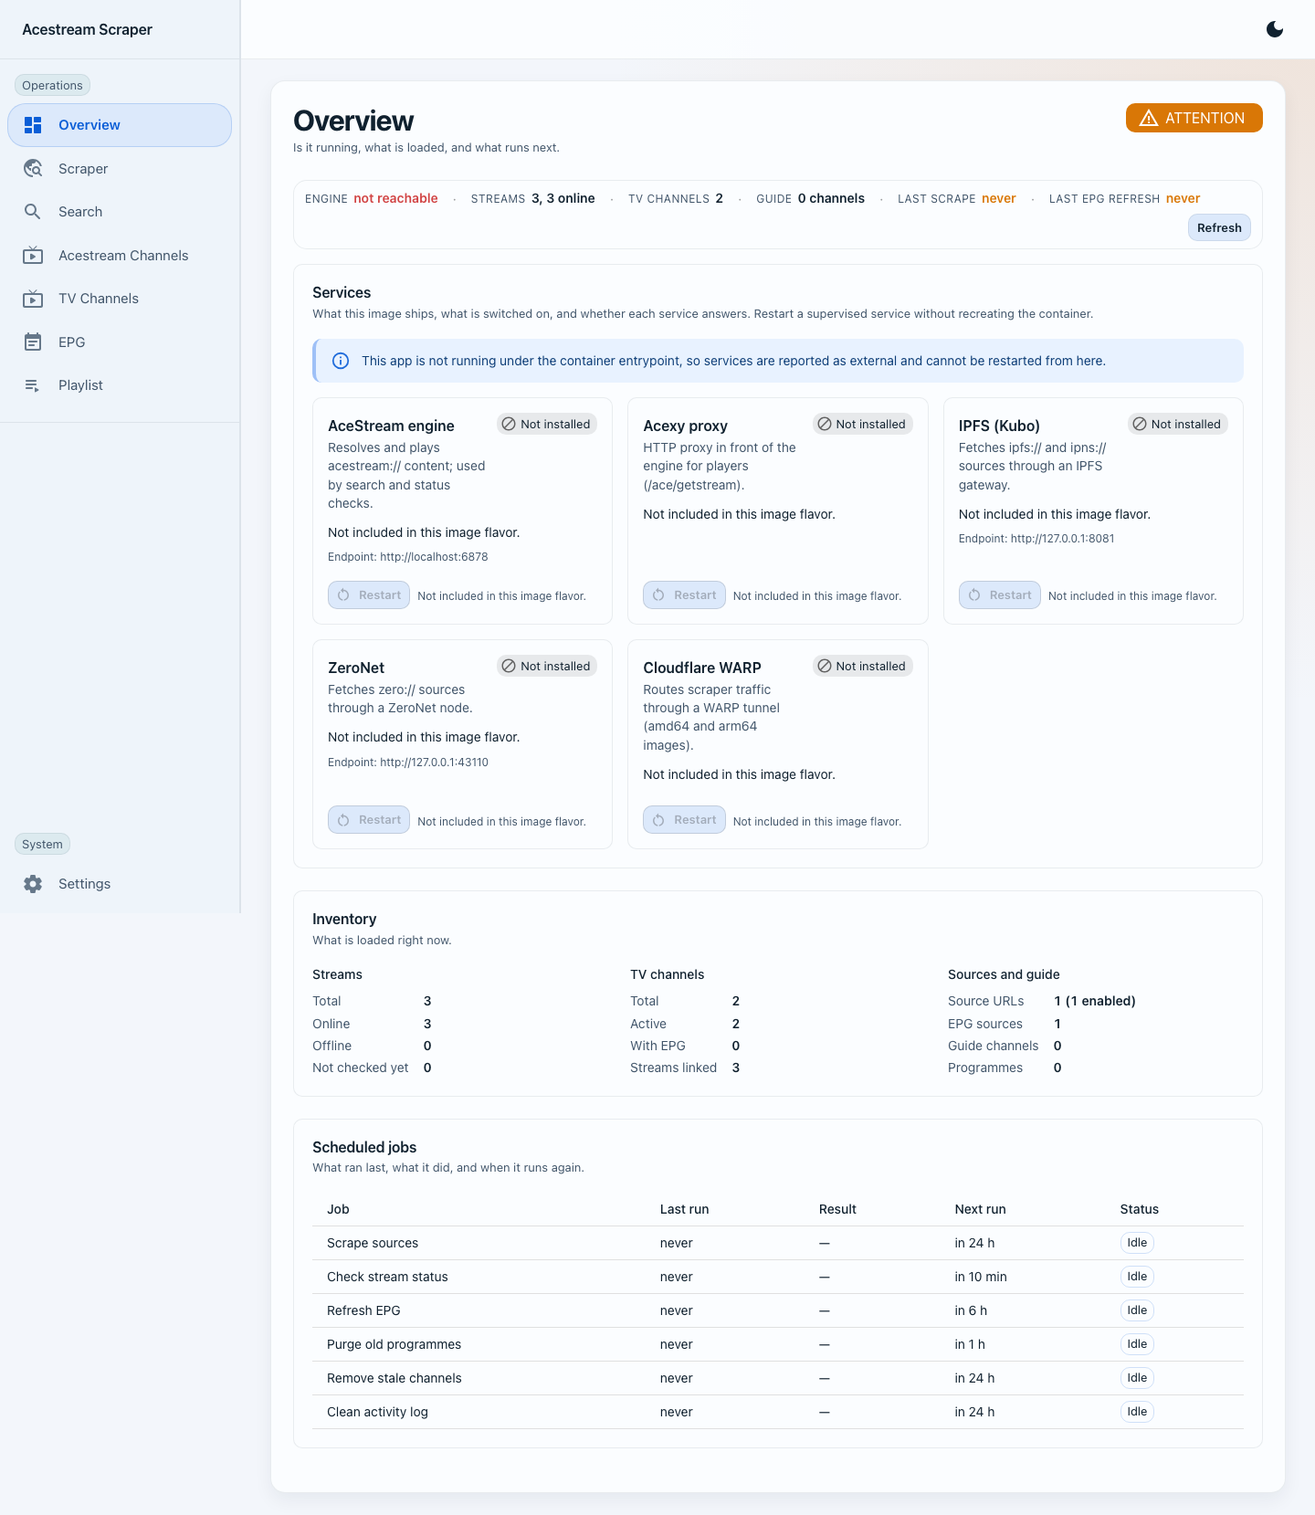
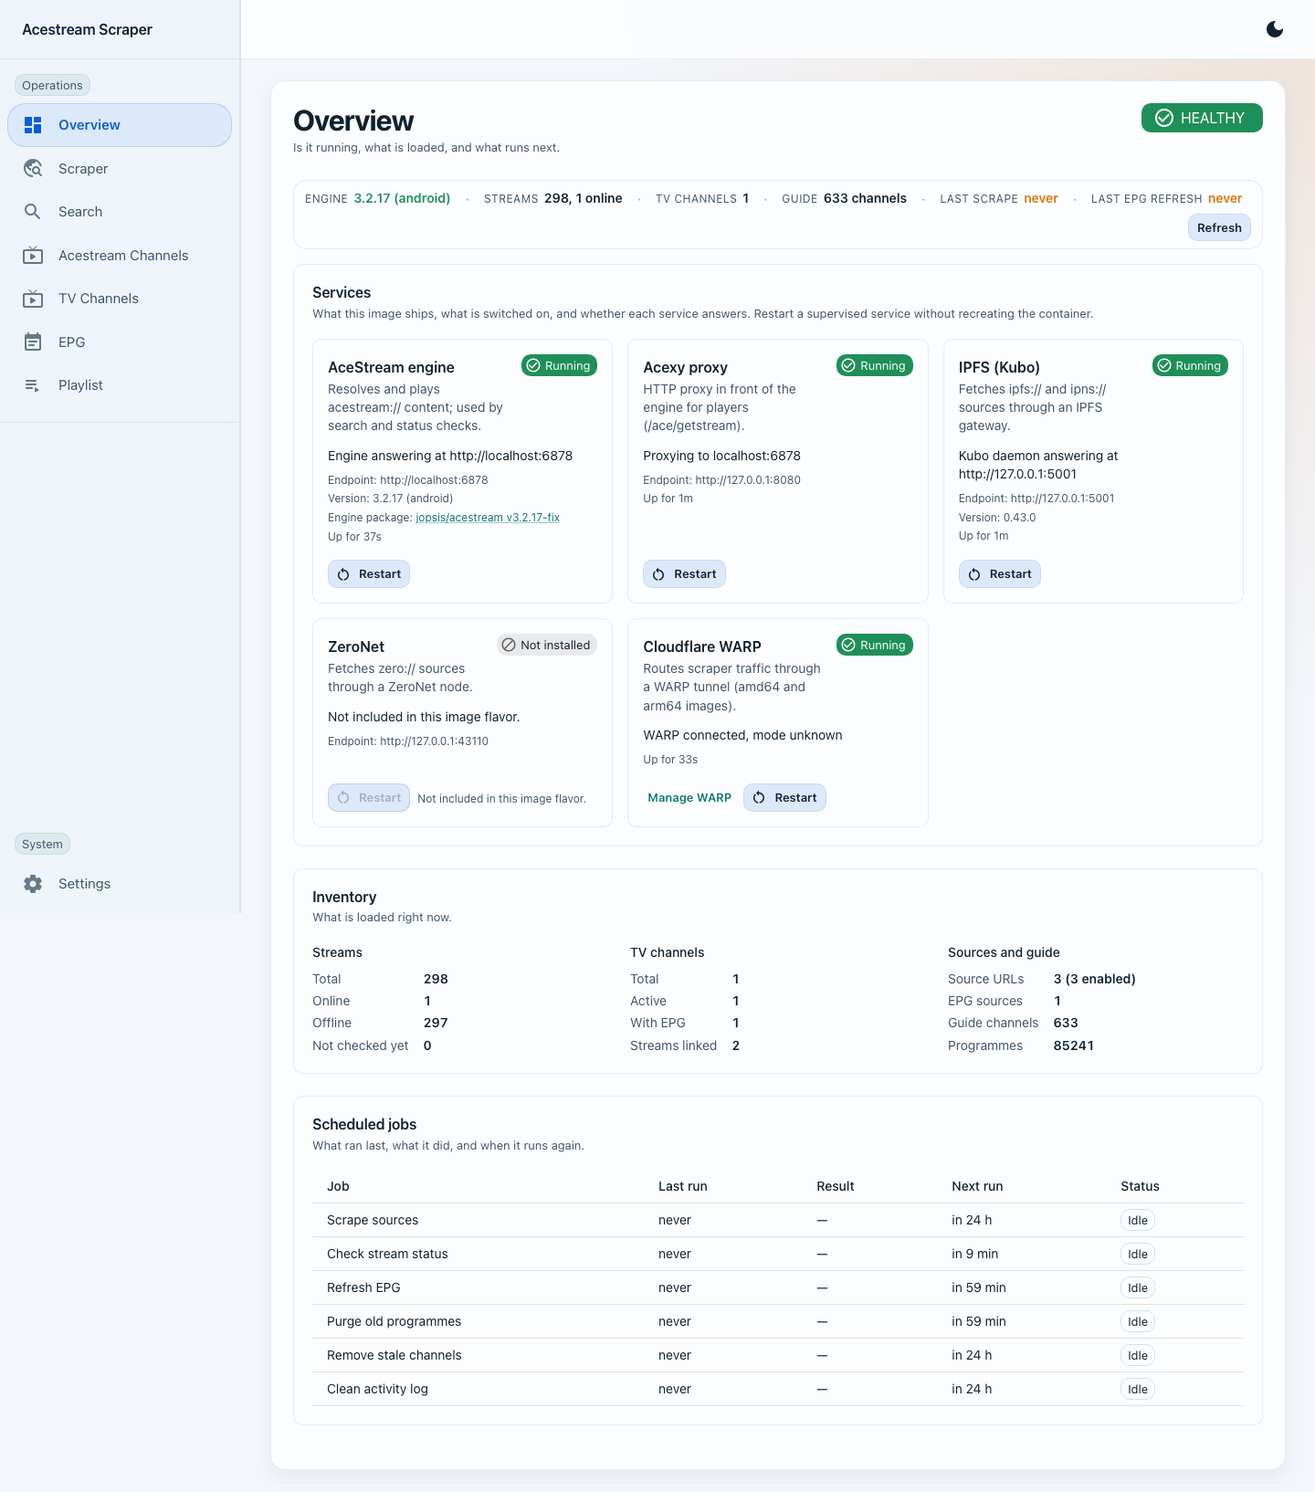
fix: enable and verify WARP on arm64

diff --git a/e2e/tests/09-system.spec.ts b/e2e/tests/09-system.spec.ts
@@ -58,10 +58,14 @@ test.describe('overview and WARP', () => {
     for (const target of managed) {
       await overview.restart(target.label);
       await overview.expectAlert(/Restart requested/);
-      await expect(overview.serviceCard(target.label)).toContainText('Restarting');
+      let restarted: { name: string; pid: number | null; state: string; message: string } | undefined;
+      await expect.poll(async () => {
+        const after = await api.raw('get', '/api/v1/system/services').then((r) => r.json() as Promise<{ services: { name: string; pid: number | null; state: string; message: string }[] }>);
+        restarted = after.services.find((s) => s.name === target.name);
+        return restarted?.state === 'running' && restarted.pid !== null && restarted.pid !== target.pid;
+      }, { timeout: 120_000 }).toBe(true);
       await expect(overview.serviceCard(target.label)).toContainText('Running', { timeout: 120_000 });
-      const after = await api.raw('get', '/api/v1/system/services').then((r) => r.json() as Promise<{ services: { name: string; pid: number | null; state: string; message: string }[] }>);
-      const restarted = after.services.find((s) => s.name === target.name)!;
+      if (!restarted) throw new Error(`${target.name} disappeared after restart`);
       expect(restarted.state, `${target.name} after restart`).toBe('running');
       expect(restarted.pid, `${target.name} relaunched with a new pid`).not.toBe(target.pid);
       testInfo.annotations.push({ type: 'restart', description: `${target.name}: pid ${target.pid} -> ${restarted.pid}; ${restarted.message}` });
@@ -77,16 +81,17 @@ test.describe('overview and WARP', () => {
     await expect(warp.status()).toContainText(/Not running|Disconnected|Connected/);
 
     const services = await api.raw('get', '/api/v1/system/services').then((r) => r.json() as Promise<{ services: { name: string; state: string; message: string }[] }>);
+    const warpStatus = await api.raw('get', '/api/v1/warp/status').then((r) => r.json() as Promise<{ mode: string | null }>);
     const warpService = services.services.find((s) => s.name === 'warp')!;
     testInfo.annotations.push({ type: 'warp', description: `${warpService.state}: ${warpService.message}` });
     if (warpService.state === 'running') {
       await expect(warp.status()).toContainText(/Connected|Disconnected/);
-      await expect(warp.status()).toContainText(/mode \w+/);
+      if (warpStatus.mode) await expect(warp.status()).toContainText(`mode ${warpStatus.mode}`);
       await expect(warp.modeAndLicense()).toBeVisible();
       await expect(warp.connectionDetails()).toBeVisible();
       if (/^WARP connected/.test(warpService.message)) {
         await expect(warp.status()).toContainText(/^Connected/);
-        await expect(warp.connectionDetails()).toContainText(/IP: \d+\.\d+\.\d+\.\d+/);
+        await expect(warp.connectionDetails()).toContainText(/IP: (?:\d{1,3}(?:\.\d{1,3}){3}|[0-9a-f:]+)/i);
       }
     } else {
       await expect(warp.status()).toContainText('Not running');

diff --git a/docs/builder/app.js b/docs/builder/app.js
@@ -122,7 +122,10 @@
       env.push(['ACEXY_HOST', state.extEngineHost.trim() || '<engine-host>']);
       env.push(['ACEXY_PORT', String(validPort(state.extEnginePort) || 6878)]);
     }
-    if (d.warpOn) env.push(['ENABLE_WARP', 'true']);
+    if (d.warpOn) {
+      env.push(['ENABLE_WARP', 'true']);
+      env.push(['WARP_ENABLE_NAT', 'true']);
+    }
     if (d.zeronetEmbeddedOn) env.push(['ENABLE_ZERONET', 'true']);
     if (d.zeronetExternalOn) env.push(['ZERONET_URL', state.zeronetUrl.trim() || data.zeronet.defaultUrl]);
     if (d.ipfsEmbeddedOn) env.push(['ENABLE_IPFS', 'true']);
@@ -178,6 +181,7 @@
     if (d.warpOn) {
       lines.push('  --cap-add NET_ADMIN \\');
       lines.push('  --cap-add SYS_ADMIN \\');
+      lines.push('  --device /dev/net/tun:/dev/net/tun \\');
     }
     if (usesHostGateway(d)) lines.push('  --add-host host.docker.internal:host-gateway \\');
     for (const [k, v] of envEntries(d)) lines.push(`  -e ${k}=${v} \\`);
@@ -230,6 +234,8 @@
       lines.push('    cap_add:');
       lines.push('      - NET_ADMIN');
       lines.push('      - SYS_ADMIN');
+      lines.push('    devices:');
+      lines.push('      - /dev/net/tun:/dev/net/tun');
     }
     if (usesHostGateway(d)) {
       lines.push('    extra_hosts:');
@@ -391,7 +397,7 @@
     }
     list.append(toggleRow('warp', 'Route through Cloudflare WARP',
       d.platform.warpAvailable
-        ? 'Tunnels the container\'s traffic through WARP. Adds the NET_ADMIN and SYS_ADMIN capabilities.'
+        ? 'Connects the container through WARP. Adds the required capabilities and TUN device.'
         : data.notes.warpArm,
       d.platform.warpAvailable && state.warp, (v) => { state.warp = v; }, !d.platform.warpAvailable));
     list.append(toggleRow('zeronet', 'Scrape ZeroNet sources',

diff --git a/scripts/ci/validate_docker_docs_contract.py b/scripts/ci/validate_docker_docs_contract.py
@@ -123,8 +123,10 @@ checks = [
         "docs explain warp capabilities",
         "NET_ADMIN" in readme
         and "SYS_ADMIN" in readme
+        and "/dev/net/tun" in readme
         and "NET_ADMIN" in docker_guide
-        and "SYS_ADMIN" in docker_guide,
+        and "SYS_ADMIN" in docker_guide
+        and "/dev/net/tun" in docker_guide,
     ),
     (
         "docs explain acestream engine state volume",

diff --git a/README.md b/README.md
@@ -41,7 +41,7 @@ Not sure which tag, ports, folders or options you need? The [Docker command buil
 
 `latest` and the immutable `vX.Y.Z` tags (plus `vX.Y.Z-<flavor>`) are the releases, cut from `main`. A pre-release channel is published from the `develop` branch as well: `pipepito/acestream-scraper:develop` (the full `scraper-acestream-acexy` payload, mirroring what `latest` means for releases) plus `develop-scraper`, `develop-scraper-acestream`, `develop-scraper-acexy`, and `develop-scraper-acestream-acexy`. The channel tags are moving tags, re-pushed on every validated build of `develop` (the full CI validation runs first, on the same platforms as the release flavors), so they are meant for testing the next release and not for production. To try one, set `image: pipepito/acestream-scraper:develop` in your compose file or `docker pull pipepito/acestream-scraper:develop`.
 
-WARP is installed in every flavor's `linux/amd64` image (ARM images ship without it), but it only starts when `ENABLE_WARP=true`. WARP-enabled containers need the runtime capabilities `NET_ADMIN` and `SYS_ADMIN`.
+WARP is installed in every flavor's `linux/amd64` and `linux/arm64` images (`linux/arm/v7` has no upstream package), but it only starts when `ENABLE_WARP=true`. WARP-enabled containers need the runtime capabilities `NET_ADMIN` and `SYS_ADMIN` plus the `/dev/net/tun` device. Set `WARP_ENABLE_NAT=true` to connect automatically at startup, or connect from the WARP page after the service starts.
 
 ZeroNet works in two modes. The `linux/amd64` images bundle a ZeroNet node ([zeronet-conservancy](https://github.com/zeronet-conservancy/zeronet-conservancy) v0.7.10 on its own Python 3.11, like the v1 image) that is opt-in via `ENABLE_ZERONET=true` (plus optional `ENABLE_TOR=true`); its state lives in `/data/zeronet` and its UI/fileserver ports are `43110`/`26552`. Alternatively — and on ARM images, which ship without the bundled node — ZeroNet runs as an external sidecar/service and the app talks to it through `ZERONET_URL`.
 
@@ -57,7 +57,7 @@ AceStream platform availability is manifest-driven via `docker/manifests/acestre
 
 The manifest currently covers `linux/amd64` (native Linux engine 3.2.11), `linux/arm64` (stable: non-premium-gated Android engine 3.2.17 from [`jopsis/acestream:v3.2.17-fix`](https://hub.docker.com/r/jopsis/acestream), digest-pinned and grafted into this image), and `linux/arm/v7` (experimental: official Android engine 3.1.80.0; builds and installs, but has not been runtime-tested on real ARMv7 hardware yet). The jopsis build sources are [public on GitHub](https://github.com/jopsis/docker-acestream-aceserve); the dashboard reports and links the exact engine package at runtime. `latest`, `scraper-acestream`, and `scraper-acestream-acexy` are published for all three platforms. The engine stays opt-in (`ENABLE_ACESTREAM_ENGINE=false` by default), and no extra privileges, capabilities, or seccomp changes are needed to run it on ARM.
 
-When you enable the engine on ARM, it keeps its config, cache, and logs under `/var/lib/acestream` (`ACESTREAM_HOME`); mount a volume there (for example `-v acestream-state:/var/lib/acestream`) so they survive container replacement, and publish `6878` (engine HTTP API — unauthenticated, so only on trusted networks) plus `8621` tcp/udp (P2P) if they must be reachable from outside the container. Raspberry Pi 5: the Android engine needs a 4 KB kernel page size, so set `kernel=kernel8.img` in `config.txt` (the default `kernel_2712` kernel uses 16 KB pages and the engine refuses to start). ARM images ship without WARP. See [wiki/Docker.md](wiki/Docker.md) for the full ARM engine notes and caveats.
+When you enable the engine on ARM, it keeps its config, cache, and logs under `/var/lib/acestream` (`ACESTREAM_HOME`); mount a volume there (for example `-v acestream-state:/var/lib/acestream`) so they survive container replacement, and publish `6878` (engine HTTP API — unauthenticated, so only on trusted networks) plus `8621` tcp/udp (P2P) if they must be reachable from outside the container. Raspberry Pi 5: the Android engine needs a 4 KB kernel page size, so set `kernel=kernel8.img` in `config.txt` (the default `kernel_2712` kernel uses 16 KB pages and the engine refuses to start). WARP is available on ARM64 but not ARMv7. See [wiki/Docker.md](wiki/Docker.md) for the full ARM engine notes and caveats.
 
 ### Local Development
 

diff --git a/docs/superpowers/specs/2026-03-25-docker-flavors-design.md b/docs/superpowers/specs/2026-03-25-docker-flavors-design.md
@@ -232,7 +232,7 @@ The "manifest update only" assumption above did not hold. Upstream publishes nat
 - Install source: every engine archive and the bionic `.deb`s are vendored in `docker/vendor/acestream/` and `docker/vendor/bionic/` (each with `SHA256SUMS`), with identical copies published as GitHub Release assets at https://github.com/Pipepito/acestream-scraper/releases/tag/acestream-binaries-3.2.11-3.1.80.0. `docker/scripts/install-acestream.sh` resolves vendored copy → upstream `url` → `mirror_urls`, sha256-verified, so builds no longer need WARP/egress to download.acestream.media. Manual-by-manifest (Update Strategy below) still holds; bumping a pin is documented in `docker/vendor/acestream/README.md`.
 - Build plumbing: the `acestream-installer` stage takes `ARG TARGETPLATFORM` and `ARG ACESTREAM_SOURCE=auto|explicit|fixture`; `docker/vendor` is bind-mounted into the stage rather than copied into a layer; `docker/scripts/acestream_manifest.py` is the shared resolver (also used by `scripts/ci/derive_acestream_build_args.py`). `scripts/ci/build_multiarch_images.sh` no longer injects global `ACESTREAM_*` build-args, because they would apply one engine to every platform of a multi-platform build; explicit `--build-arg ACESTREAM_*` still override. `ACESTREAM_SOURCE=fixture` builds the contract-test fixture (previously: omitting the URL).
 - Runtime on ARM: `/opt/acestream/start-engine` (`docker/scripts/acestream-android/start-engine`) sets `ANDROID_ROOT=/system` plus the Python/linker environment, checks `getconf PAGESIZE == 4096` (the Android 9 bionic linker segfaults on 16 KB-page kernels — Raspberry Pi 5 needs `kernel=kernel8.img` in `config.txt`), seeds `ACESTREAM_HOME/acestream.conf`, and execs the bionic python. Engine state/cache/logs live in `ACESTREAM_HOME=/var/lib/acestream` (recommend `-v acestream-state:/var/lib/acestream`). `ACESTREAM_START_COMMAND` is unchanged for all platforms; ports and the backend health calls (`get_status`, `get_network_connection_status`) work the same.
-- Known ARM limitations: engine version skew (3.1.80 on ARM vs 3.2.11 on amd64; `platform` reports `android`); no WebRTC transport (pywebrtc needs Android GPU/audio libs; non-fatal engine error); a few CPython accelerator modules fall back to pure Python; no WARP on ARM images (cloudflare-warp is amd64-only, pre-existing — the "every runtime flavor installs WARP support" rule above already did not hold on ARM); performance/streaming stability not validated on real hardware; repackaging the APK is a licensing grey area shared by every community ARM image. See also `docs/release/arm-acestream-issue-draft.md`.
+- Known ARM limitations: engine version skew (3.2.17 on ARM64 and 3.1.80 on ARMv7 vs 3.2.11 on amd64; `platform` reports `android`); no WebRTC transport (pywebrtc needs Android GPU/audio libs; non-fatal engine error); a few CPython accelerator modules fall back to pure Python; no WARP on ARMv7 (Cloudflare publishes amd64 and arm64 packages only); performance/streaming stability not validated on real hardware; repackaging the APK is a licensing grey area shared by every community ARM image. See also `docs/release/arm-acestream-issue-draft.md`.
 - Tests: `backend/tests/docker/` (`test_acestream_manifest.py`, `test_derive_args.py`, `test_install_acestream.py`, `test_acestream_runtime_smoke.py`) — run with `PYTHONPATH=backend backend/venv/bin/pytest -q backend/tests/docker` — and `python3 scripts/ci/validate_docker_manifest_metadata.py` (also checks vendored files, `SHA256SUMS` and mirror URLs).
 
 ### Update Strategy

diff --git a/docs/architecture/deployment.md b/docs/architecture/deployment.md
@@ -87,7 +87,7 @@ Docker runtime toggles:
 
 The selected image flavor controls which optional binaries are installed. Runtime env flags control whether those installed services start.
 
-WARP is installed in every flavor, but it only starts when `ENABLE_WARP=true`. For the documented containerized runtime path in this repository, WARP-enabled containers require the runtime capabilities `NET_ADMIN` and `SYS_ADMIN`.
+WARP is installed in every flavor on `linux/amd64` and `linux/arm64`, but it only starts when `ENABLE_WARP=true`. `linux/arm/v7` has no upstream WARP package. WARP-enabled containers require the runtime capabilities `NET_ADMIN` and `SYS_ADMIN` plus `/dev/net/tun`; `WARP_ENABLE_NAT=true` connects and enables NAT at startup.
 
 Legacy env aliases remain supported for one release window (`v2-cutover-r1`) with canonical-variable precedence and conflict warnings.
 
@@ -195,6 +195,6 @@ Operator caveats specific to the ARM engine:
 - `linux/arm/v7` is experimental: build-tested only, never executed on real ARMv7/AArch32 hardware.
 - Engine version skew: 3.2.17 on ARM64, 3.1.80 on ARMv7, and 3.2.11 on amd64; ARM reports platform `android`.
 - No WebRTC transport on ARM (pywebrtc needs Android GPU/audio libraries; the engine logs a non-fatal error). A few CPython accelerator modules fall back to pure Python.
-- No WARP on ARM images (`cloudflare-warp` is amd64-only; pre-existing limitation).
+- No WARP on `linux/arm/v7` images (`cloudflare-warp` is published for amd64 and arm64 only).
 - Performance and streaming stability are not yet validated on real ARM hardware.
 - Repackaging the official APK payload sits in a grey area under the AceStream user agreement's redistribution terms, shared by every community ARM image.

diff --git a/docs/release/v2-release-notes.md b/docs/release/v2-release-notes.md
@@ -34,7 +34,7 @@ Platform support:
 | Platform | AceStream engine | IPFS | ZeroNet | WARP |
 |---|---|---|---|---|
 | `linux/amd64` | Native 3.2.11, stable | Bundled, opt-in | Bundled, opt-in | Bundled, opt-in |
-| `linux/arm64` | Android 3.2.17, stable | Bundled, opt-in | External | Not available |
+| `linux/arm64` | Android 3.2.17, stable | Bundled, opt-in | External | Bundled, opt-in |
 | `linux/arm/v7` | Android 3.1.80, experimental | External | External | Not available |
 
 Acexy-bearing flavors now build and run the real upstream Acexy 0.2.2 proxy. The full and engine flavors persist ARM engine state under `/var/lib/acestream`; mount a volume there when enabling the engine.
@@ -96,7 +96,7 @@ Legacy environment aliases available during the v2.0.0 transition:
 - `linux/arm/v7` AceStream support is experimental and still requires validation on real ARMv7/AArch32 hardware.
 - ARM AceStream has no WebRTC transport and may use pure-Python fallbacks for some accelerators.
 - The Android engine requires a 4 KB kernel page size. On Raspberry Pi 5, use the 4 KB-page `kernel8.img`; the default 16 KB-page kernel cannot start it.
-- WARP is unavailable on ARM because upstream packages only support amd64.
+- WARP is unavailable on `linux/arm/v7` because Cloudflare does not publish a 32-bit ARM package; amd64 and arm64 are supported.
 - The app remains open on trusted networks unless `API_TOKEN` or reverse-proxy authentication is configured.
 
 ## Documentation

diff --git a/wiki/Configuration.md b/wiki/Configuration.md
@@ -135,8 +135,8 @@ Cloudflare WARP provides enhanced privacy and secure connection options:
 
 | Variable | Description | Default | Notes |
 |----------|-------------|---------|-------|
-| `ENABLE_WARP` | Enable Cloudflare WARP | `false` | Requires `NET_ADMIN` and `SYS_ADMIN` capabilities |
-| `WARP_ENABLE_NAT` | Enable NAT for WARP traffic | `true` | Allows routing traffic through WARP tunnel |
+| `ENABLE_WARP` | Start Cloudflare WARP | `false` | Available on amd64/arm64; requires `NET_ADMIN`, `SYS_ADMIN`, and `/dev/net/tun` |
+| `WARP_ENABLE_NAT` | Connect WARP and enable NAT at startup | `false` | Leave false to connect/disconnect from the WARP page instead |
 | `WARP_LICENSE_KEY` | WARP license key | - | Optional: For WARP+ or Team accounts |
 
 ### Docker Example with WARP Enabled
@@ -146,7 +146,9 @@ docker run -d \
   -p 8000:8000 \
   --cap-add NET_ADMIN \
   --cap-add SYS_ADMIN \
+  --device /dev/net/tun:/dev/net/tun \
   -e ENABLE_WARP=true \
+  -e WARP_ENABLE_NAT=true \
   -v "${PWD}/config:/app/config" \
   --name acestream-scraper \
   pipepito/acestream-scraper:latest
@@ -164,9 +166,12 @@ services:
     cap_add:
       - NET_ADMIN
       - SYS_ADMIN
+    devices:
+      - /dev/net/tun:/dev/net/tun
     environment:
       - TZ=Europe/Madrid
       - ENABLE_WARP=true
+      - WARP_ENABLE_NAT=true
     ports:
       - "8000:8000"
     volumes:

diff --git a/docs/release/v2-release-readiness.md b/docs/release/v2-release-readiness.md
@@ -141,7 +141,7 @@ The v2 consolidation is structurally complete: all six phases shipped their plan
 **Verified:**
 - `Dockerfile` flavor targets: `scraper`, `scraper-acestream`, `scraper-acexy`, `scraper-acestream-acexy` (lines 160–183).
 - `scripts/ci/build_multiarch_images.sh`, `verify_multiarch_manifest.sh`, `flavor_platforms.py`.
-- Manifests: `docker/manifests/{platforms,acestream}.json` (AceStream is amd64-only today). *(Superseded on 2026-08-27 by branch `arm-acestream-engine`: `acestream.json` now declares `linux/amd64` and `linux/arm64` as `stable` and `linux/arm/v7` as `experimental`, backed by the official Android engine — see "Known issues" in `docs/release/v2-release-notes.md`.)*
+- Manifests: `docker/manifests/{platforms,acestream}.json`; `acestream.json` declares `linux/amd64` and `linux/arm64` as `stable` and `linux/arm/v7` as `experimental`. See the platform matrix and known issues in `docs/release/v2-release-notes.md`.
 - Smoke tooling: `scripts/ci/phase5_arch_smoke.sh`, `scripts/phase_gates/phase5_gate_runner.py` + config.
 - Docs: `docs/migration/phase5-architecture-smoke-checklist.md`, `docs/architecture/deployment.md` (Multi-Arch + Android TV section), `docs/release/phase5-multiarch-evidence.md`.
 

diff --git a/wiki/Usage.md b/wiki/Usage.md
@@ -129,7 +129,7 @@ All current application APIs are under `/api/v1`. A small set of v1 playlist ali
 
 ## WARP
 
-When WARP is installed and enabled, open it from the **Overview** services panel. The page shows connection state, mode, account, and exit location, and provides connect/disconnect controls. Enabling WARP in Docker requires `ENABLE_WARP=true` plus the `NET_ADMIN` and `SYS_ADMIN` capabilities. WARP is available on `linux/amd64` images only.
+When WARP is installed and enabled, open it from the **Overview** services panel. The page shows connection state, mode, account, and exit location, and provides connect/disconnect controls. Enabling WARP in Docker requires `ENABLE_WARP=true`, the `NET_ADMIN` and `SYS_ADMIN` capabilities, and the `/dev/net/tun` device. Set `WARP_ENABLE_NAT=true` to connect automatically, or use the page's connect control. WARP is available on `linux/amd64` and `linux/arm64`; it is unavailable on `linux/arm/v7` because Cloudflare does not publish a 32-bit ARM package.
 
 ## Next steps
 

diff --git a/wiki/Docker.md b/wiki/Docker.md
@@ -101,6 +101,7 @@ docker run -d -p 8000:8000 --name acestream-scraper pipepito/acestream-scraper:l
 Important runtime env expectations:
 
 - `ENABLE_WARP` enables WARP only when set to `true`
+- `WARP_ENABLE_NAT` connects WARP and enables NAT at startup when set to `true` (default `false`; otherwise connect from the WARP page)
 - `ENABLE_ACESTREAM_ENGINE` starts the installed AceStream engine only when set to `true`
 - `ENABLE_ACEXY` starts the installed Acexy binary only when set to `true`
 - `ACESTREAM_HTTP_HOST` and `ACESTREAM_HTTP_PORT` define the in-container AceStream endpoint
@@ -118,7 +119,9 @@ Example with WARP enabled:
 docker run -d \
   --cap-add NET_ADMIN \
   --cap-add SYS_ADMIN \
+  --device /dev/net/tun:/dev/net/tun \
   -e ENABLE_WARP=true \
+  -e WARP_ENABLE_NAT=true \
   -p 8000:8000 \
   --name acestream-scraper \
   pipepito/acestream-scraper:latest

diff --git a/docs/ops/reverse-proxy.md b/docs/ops/reverse-proxy.md
@@ -217,7 +217,8 @@ pin the bind to a LAN interface.
 ## WARP and remote access
 
 - `ENABLE_WARP=true` requires the `NET_ADMIN` and `SYS_ADMIN` container
-  capabilities (`cap_add` in compose). It is amd64-only.
+  capabilities (`cap_add` in compose) and `/dev/net/tun`. It is available on
+  amd64 and arm64, but not arm/v7. Set `WARP_ENABLE_NAT=true` to connect at startup.
 - WARP's full-tunnel mode routes the container's traffic through
   Cloudflare and **can interfere with remote access** to the container —
   streams and proxied requests may stall or become unreachable while the
